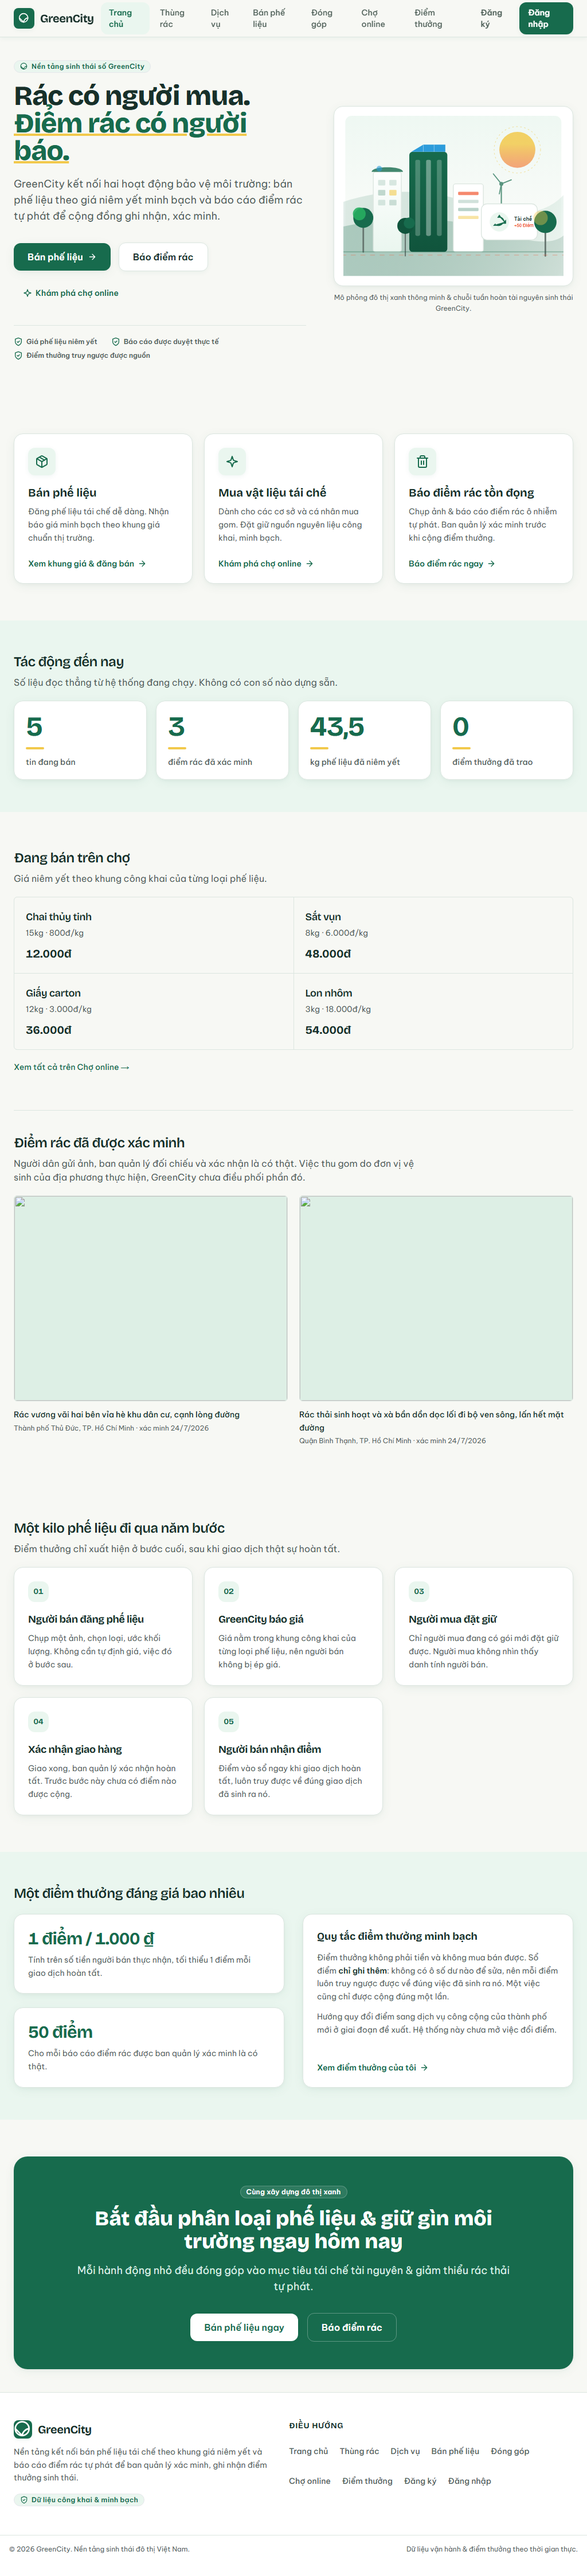
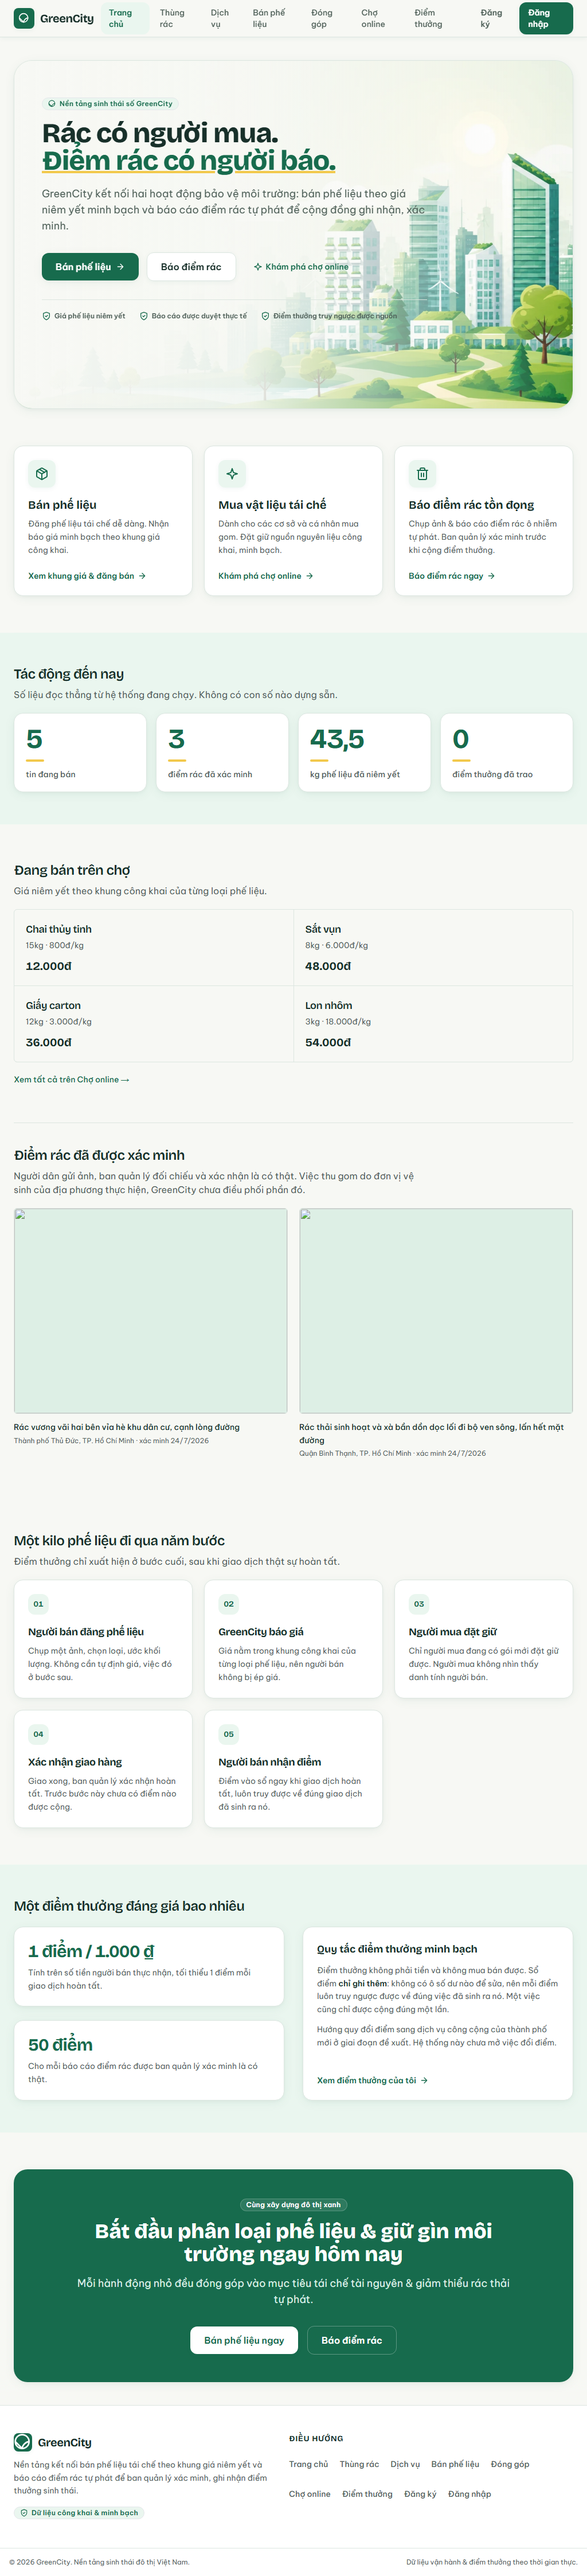
feat(web): add animated eco-city hero background

diff --git a/apps/web/src/components/home-hero.tsx b/apps/web/src/components/home-hero.tsx
@@ -1,20 +1,31 @@
+import Image from "next/image";
 import Link from "next/link";
 import { EcoBadge } from "./eco-badge";
-import { EcoCityHeroIllustration } from "./eco-city-hero-illustration";
 import { IconArrowRight, IconLeaf, IconShieldCheck, IconSparkles } from "./eco-icons";
 
 /**
  * Opening hero section — Server Component.
- * Proposition left column, controlled eco-city vector illustration right column.
+ * Proposition over a controlled, decorative eco-city panorama.
  * Exact H1: "Rác có người mua. Điểm rác có người báo."
  */
 export function HomeHero() {
   return (
     <section
       aria-labelledby="hero-heading"
-      className="grid min-w-0 grid-cols-1 items-center gap-8 pb-12 sm:pb-16 lg:grid-cols-[minmax(0,1.1fr)_minmax(0,0.9fr)] lg:gap-12"
+      className="home-hero relative isolate min-w-0 overflow-hidden rounded-[2rem] border border-edge px-5 py-10 shadow-eco sm:px-8 sm:py-14 lg:min-h-[38rem] lg:px-12 lg:py-16"
     >
-      <div className="min-w-0">
+      <Image
+        src="/eco-city-hero.png"
+        alt=""
+        fill
+        priority
+        quality={88}
+        sizes="(max-width: 768px) 100vw, 1440px"
+        className="home-hero-image object-cover"
+      />
+      <div aria-hidden="true" className="home-hero-veil absolute inset-0" />
+
+      <div className="relative z-10 min-w-0 max-w-2xl">
         <div className="mb-4 inline-flex items-center gap-2">
           <EcoBadge variant="mint" icon={<IconLeaf className="h-3.5 w-3.5" />}>
             Nền tảng sinh thái số GreenCity
@@ -77,14 +88,6 @@ export function HomeHero() {
         </div>
       </div>
 
-      <figure className="relative min-w-0">
-        <div className="relative aspect-[4/3] w-full overflow-hidden rounded-2xl border border-edge bg-card p-4 shadow-eco">
-          <EcoCityHeroIllustration />
-        </div>
-        <figcaption className="mt-2.5 text-center text-xs leading-relaxed text-muted">
-          Mô phỏng đô thị xanh thông minh & chuỗi tuần hoàn tài nguyên sinh thái GreenCity.
-        </figcaption>
-      </figure>
     </section>
   );
 }

diff --git a/apps/web/src/app/globals.css b/apps/web/src/app/globals.css
@@ -8,7 +8,7 @@
  *        cards differentiate by content — photo-led for cleanup evidence,
  *        type-led for listings, unbordered for stages ·
  *        tabular-nums on every figure · documentary photography, no stock
- * motion: none added (no motion library in this project)
+ * motion: one ambient hero-image drift; CSS-only and reduced-motion safe
  * fonts: Bricolage Grotesque + Be Vietnam Pro
  * pre-emit critique: P5 H5 E4 S5 R4 V4
  */
@@ -53,7 +53,9 @@
   --space-12: 3rem;
 
   --ease-out: cubic-bezier(0.16, 1, 0.3, 1);
+  --ease-in-out: cubic-bezier(0.65, 0, 0.35, 1);
   --dur-quick: 140ms;
+  --dur-ambient: 22s;
 }
 
 html {
@@ -130,7 +132,53 @@ body {
   background: var(--color-paper-2);
 }
 
+.home-hero {
+  background: var(--color-paper-2);
+}
+
+.home-hero-image {
+  object-position: 68% center;
+  animation: hero-drift var(--dur-ambient) var(--ease-in-out) infinite alternate;
+  will-change: transform;
+}
+
+.home-hero-veil {
+  background: linear-gradient(
+    90deg,
+    color-mix(in srgb, var(--color-paper) 98%, transparent) 0%,
+    color-mix(in srgb, var(--color-paper) 92%, transparent) 42%,
+    color-mix(in srgb, var(--color-paper) 44%, transparent) 72%,
+    transparent 100%
+  );
+}
+
+@keyframes hero-drift {
+  from {
+    transform: scale(1.02) translate3d(0, 0, 0);
+  }
+
+  to {
+    transform: scale(1.06) translate3d(-1%, -0.5%, 0);
+  }
+}
+
+@media (max-width: 639px) {
+  .home-hero-image {
+    object-position: 72% center;
+    opacity: 0.42;
+  }
+
+  .home-hero-veil {
+    background: color-mix(in srgb, var(--color-paper) 88%, transparent);
+  }
+}
+
 @media (prefers-reduced-motion: reduce) {
+  .home-hero-image {
+    animation: none;
+    transform: scale(1.02);
+  }
+
   *,
   *::before,
   *::after {
